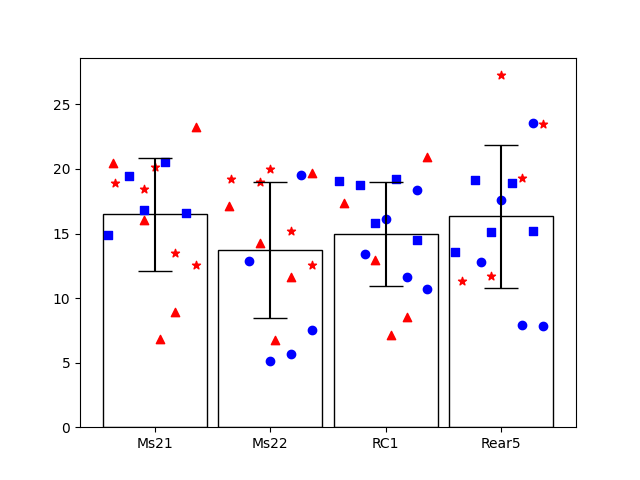
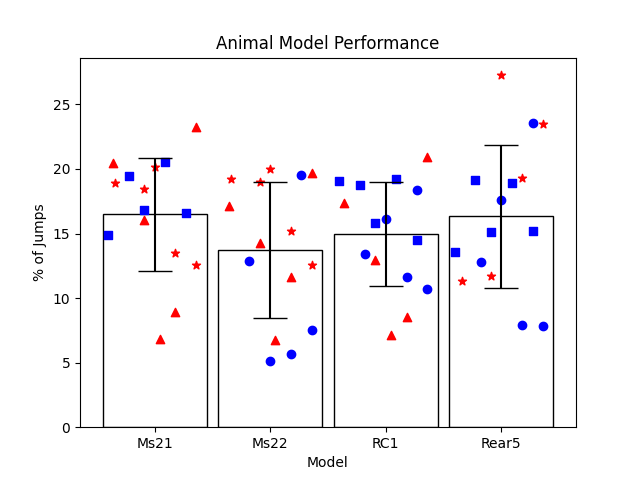
DLC update

diff --git a/DeepLabCut/DLC_jump_analysis/all_trackers/jump_analysis.py b/DeepLabCut/DLC_jump_analysis/all_trackers/jump_analysis.py
@@ -62,7 +62,6 @@ def main(full_path, relative_path, fname1, fname2, fname3):
     labels2 = ['Ms21', 'Ms22', 'RC1', 'Rear5']
     labels3 = ['single', 'combined', 'individual_tracker_avg']
 
-
     figure1 = plt.figure(1)
     plt.bar(x1,
            height=[np.mean(yi) for yi in y1],
@@ -87,6 +86,9 @@ def main(full_path, relative_path, fname1, fname2, fname3):
 
     os.chdir(current_dir + '/saved_figs')
     plt.savefig(fname1, dpi=100)
+    plt.title("Animal Model Performance")
+    plt.xlabel("Model")
+    plt.ylabel("% of Jumps")
     plt.show()
     plt.close()
 
@@ -144,6 +146,9 @@ def main(full_path, relative_path, fname1, fname2, fname3):
     plt.scatter(x2[3] + np.array([0.12, 0.4, 0.5, 0.7, 0.9]) * w - w / 2, Rear5_tracker[10:15], color=colors[0], marker='*') #star marker = RC1
 
   
+    plt.title("Animal Model Performance")
+    plt.xlabel("Model")
+    plt.ylabel("% of Jumps")
     plt.savefig(fname2, dpi=100)
     plt.show()
     plt.close()
@@ -228,6 +233,9 @@ def main(full_path, relative_path, fname1, fname2, fname3):
         plt.scatter(x3[i] + np.array([0.15, 0.4, 0.6, 0.7, 0.9]) * w - w / 2, a[10:15], color=colors[0], marker = "*") #star marker = RC1
         plt.scatter(x3[i] + np.array([0.1, 0.4, 0.55, 0.7, 0.9]) * w - w / 2, a[15:20], color=colors[0], marker = "^") #triangle marker = Rear5
 
+    plt.title("Animal Model Performance")
+    plt.xlabel("Model")
+    plt.ylabel("% of Jumps")
     plt.savefig(fname3, dpi=200)
     plt.show()
     plt.close()
